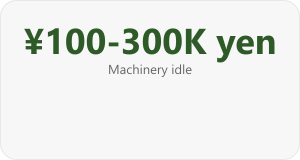
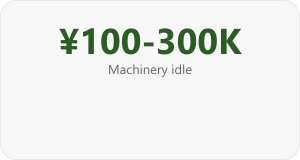
Use ¥ symbol only for machinery idle stat value

Changed region(s): [[0.06, 0.1562, 0.93, 0.4062]]

diff --git a/index.html b/index.html
@@ -621,7 +621,7 @@
                             <p class="stat-label" data-i18n="stat4_label">Increased insurance</p>
                         </div>
                         <div class="stat-card">
-                            <div class="stat-value">¥100-300K yen</div>
+                            <div class="stat-value">¥100-300K</div>
                             <p class="stat-label" data-i18n="stat7_label">Machinery idle</p>
                         </div>
                     </div>
